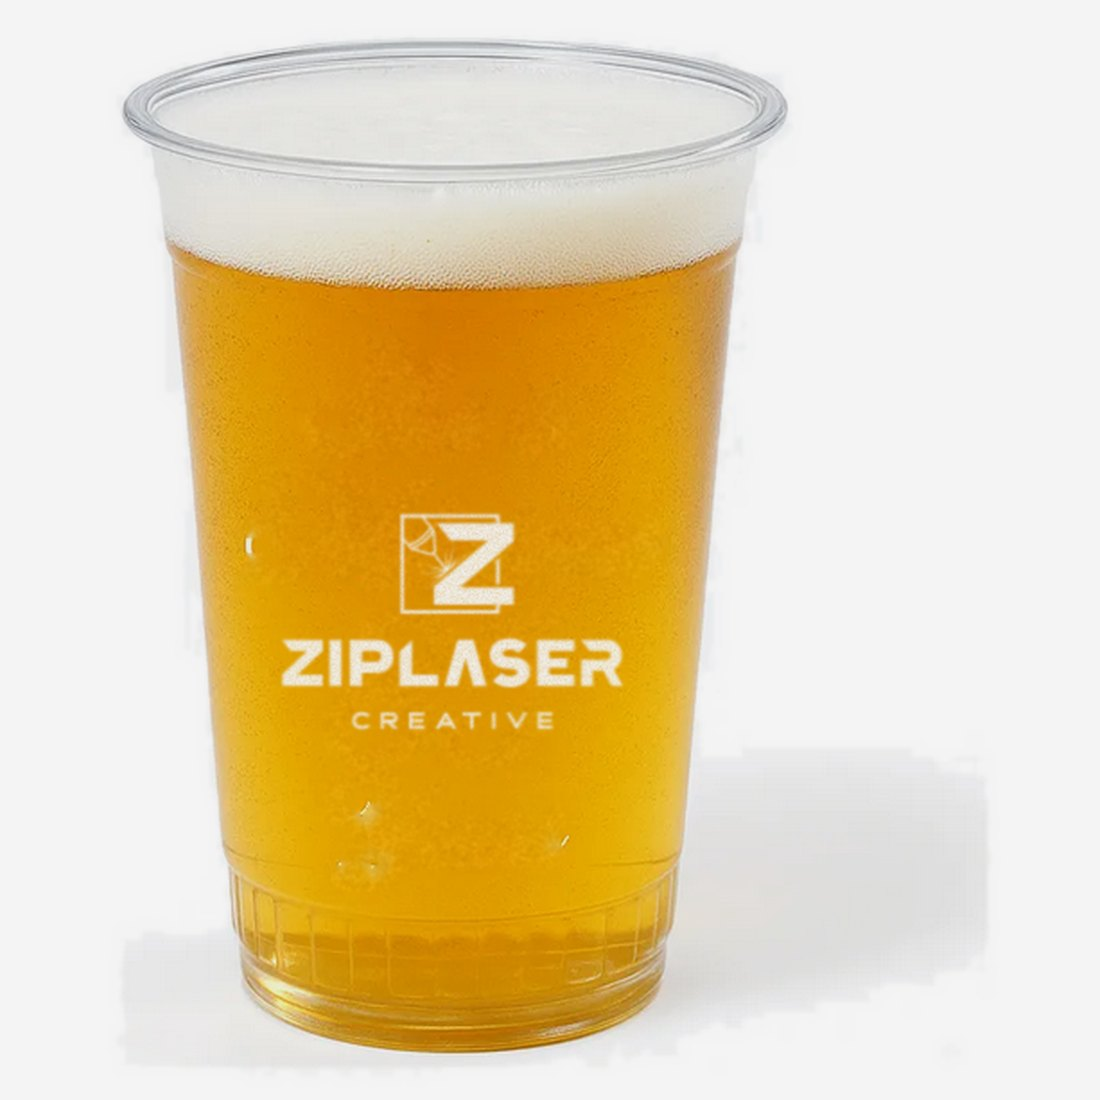
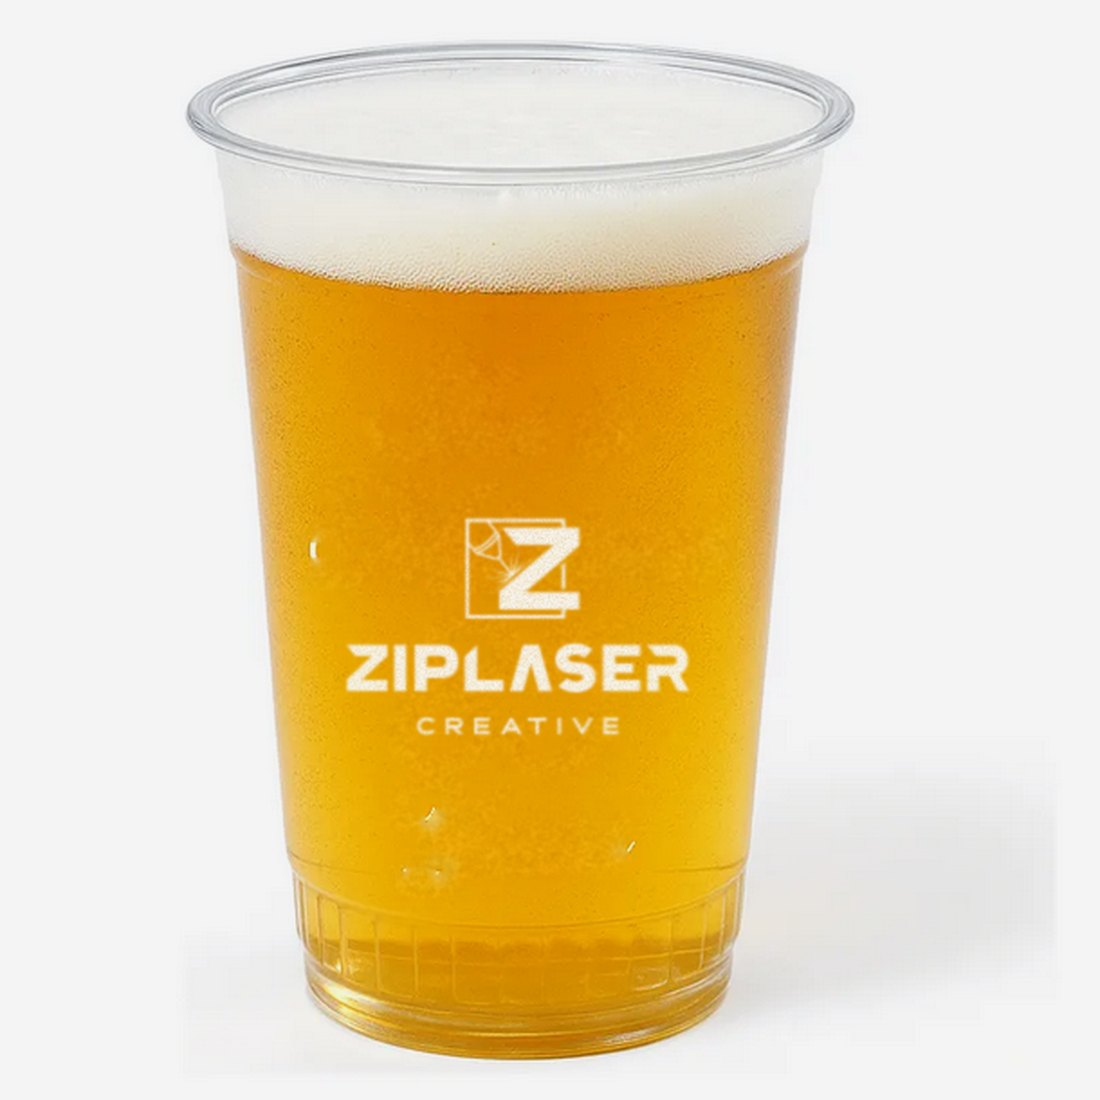
Melhora a diagramação das abas de destaque
Abas em uma linha só, com nomes curtos (Garrafa, Copo PET, Caneta
metal, Caneta eco); fundo das fotos do copo PET uniformizado.

Claude-Session: https://claude.ai/code/session_015ndp1JMreqMp5sMbkc7g89

Changed region(s): [[0.0927, 0.0309, 0.7727, 0.9891], [0.4945, 0.7418, 0.5255, 0.7727]]

diff --git a/index.html b/index.html
@@ -87,8 +87,9 @@
 
   /* Ficha de gravação (destaques) */
   .ficha{background:var(--branco);border-radius:var(--r);box-shadow:0 1px 0 rgba(0,0,0,.08),0 18px 40px -28px rgba(0,0,0,.45)}
-  .abas{display:flex;border-bottom:1px solid var(--bancada)}
-  .aba{flex:1;min-width:0;background:none;border:0;padding:15px 12px 13px;font-size:14px;font-weight:600;font-stretch:100%;color:var(--texto-2);cursor:pointer;position:relative;text-align:left}
+  .abas{display:flex;border-bottom:1px solid var(--bancada);overflow-x:auto;scrollbar-width:none}
+  .abas::-webkit-scrollbar{display:none}
+  .aba{flex:1 0 auto;white-space:nowrap;background:none;border:0;padding:16px 18px 14px;font-size:14px;font-weight:600;font-stretch:100%;color:var(--texto-2);cursor:pointer;position:relative;text-align:left}
   .aba[aria-selected="true"]{color:var(--preto)}
   .aba i{position:absolute;left:0;right:0;bottom:-1px;height:2px;background:var(--preto);transform:scaleX(0);transform-origin:left}
   .aba[aria-selected="true"] i{animation:enche var(--tempo,6s) linear forwards}
@@ -226,7 +227,7 @@
     .mat h3{font-size:var(--t0)}.mat p{font-size:14px}
     .passos{grid-template-columns:1fr;gap:36px}
     .passo::after{display:none}
-    .abas .aba{font-size:13px;padding:13px 8px 11px}
+    .abas .aba{font-size:13.5px;padding:14px 8px 12px;flex:1 0 auto;text-align:center}
     .gal{padding:0;place-items:end center}
     .gal-caixa{grid-template-columns:minmax(0,1fr);width:100%;border-radius:10px 10px 0 0;max-height:94vh;overflow:auto}
     .gal-foto{max-height:none}
@@ -412,13 +413,13 @@
 
   // Destaques da bancada (para trocar, edite esta lista)
   const DESTAQUES = [
-    { aba:"Garrafa 950 ml", nome:"Garrafa térmica 950 ml preta", img:"assets/banner/garrafa-950ml.jpg",
+    { aba:"Garrafa", nome:"Garrafa térmica 950 ml preta", img:"assets/banner/garrafa-950ml.jpg",
       specs:[["Material","Inox com pintura preta"],["Gravação","Revela o inox, com brilho metálico"],["Cores","6 opções no catálogo"]] },
-    { aba:"Copo PET 360 ml", nome:"Copo PET 360 ml", img:"assets/banner/copo-pet-360.jpg",
+    { aba:"Copo PET", nome:"Copo PET 360 ml", img:"assets/banner/copo-pet-360.jpg",
       specs:[["Material","PET transparente"],["Gravação","Branca e fosca, sem tinta"],["Ideal para","Festas, eventos e bares"]] },
-    { aba:"Caneta metálica", nome:"Caneta metálica", img:"assets/banner/caneta-metal-er143b.jpg",
+    { aba:"Caneta metal", nome:"Caneta metálica", img:"assets/banner/caneta-metal-er143b.jpg",
       specs:[["Material","Metal"],["Gravação","Traço claro e fino"],["Cores","11 opções"]] },
-    { aba:"Caneta ecológica", nome:"Caneta ecológica", img:"assets/banner/caneta-ecologica-00007.jpg",
+    { aba:"Caneta eco", nome:"Caneta ecológica", img:"assets/banner/caneta-ecologica-00007.jpg",
       specs:[["Material","Papelão"],["Gravação","Tom tostado, sem tinta"],["Cores","7 opções"]] }
   ];
 
@@ -480,6 +481,7 @@
     const reduz = matchMedia("(prefers-reduced-motion: reduce)").matches;
     function mostra(n, auto){
       atual = (n + DESTAQUES.length) % DESTAQUES.length; const d = DESTAQUES[atual];
+      const ativa = abas.children[atual]; if(ativa && abas.scrollWidth > abas.clientWidth + 2) abas.scrollTo({left: ativa.offsetLeft - 16, behavior: auto ? "smooth" : "auto"});
       abas.querySelectorAll(".aba").forEach((b,i)=>{ b.setAttribute("aria-selected", i===atual); const t=b.querySelector("i"); t.style.animation="none"; void t.offsetWidth; t.style.animation=""; });
       img.classList.add("troca");
       setTimeout(()=>{ img.src = d.img; img.alt = `${d.nome} com gravação a laser ZIPLASER`; img.classList.remove("troca"); }, auto ? 300 : 0);
